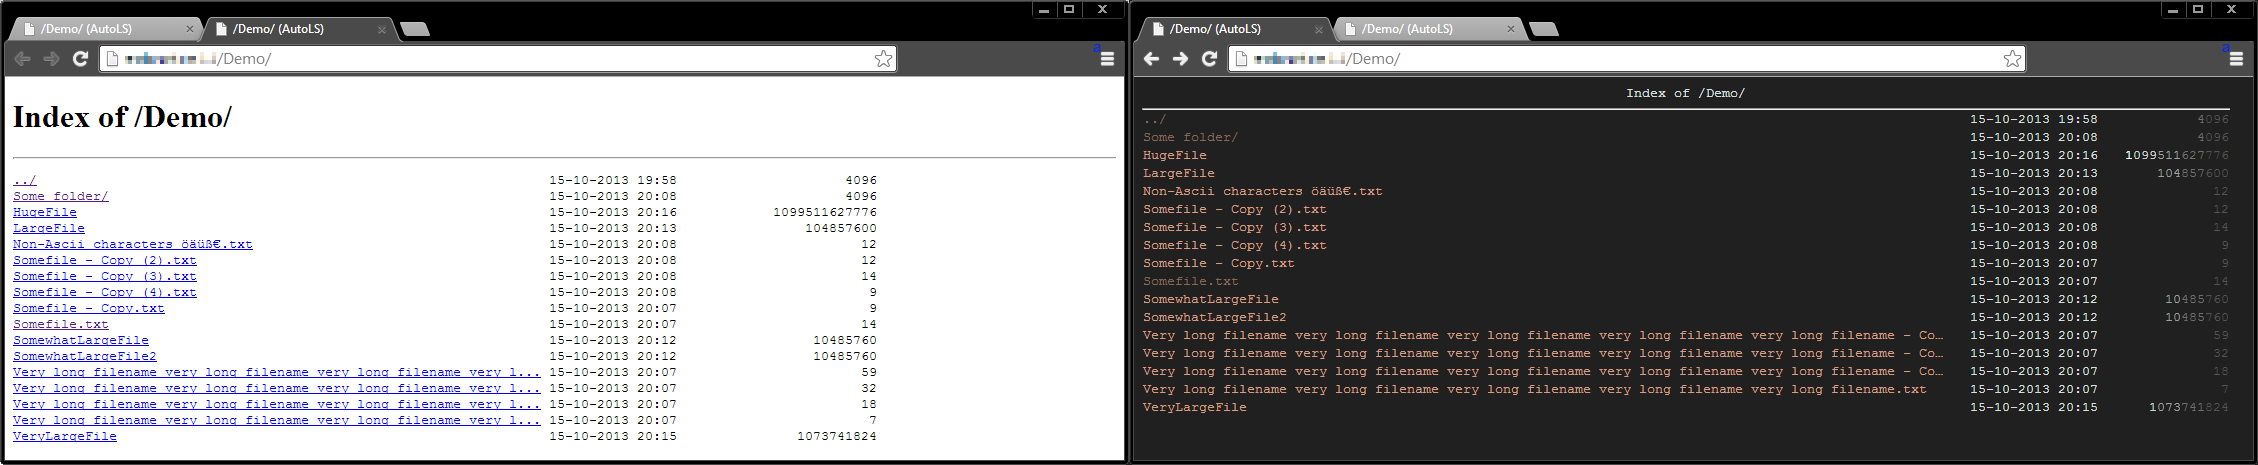
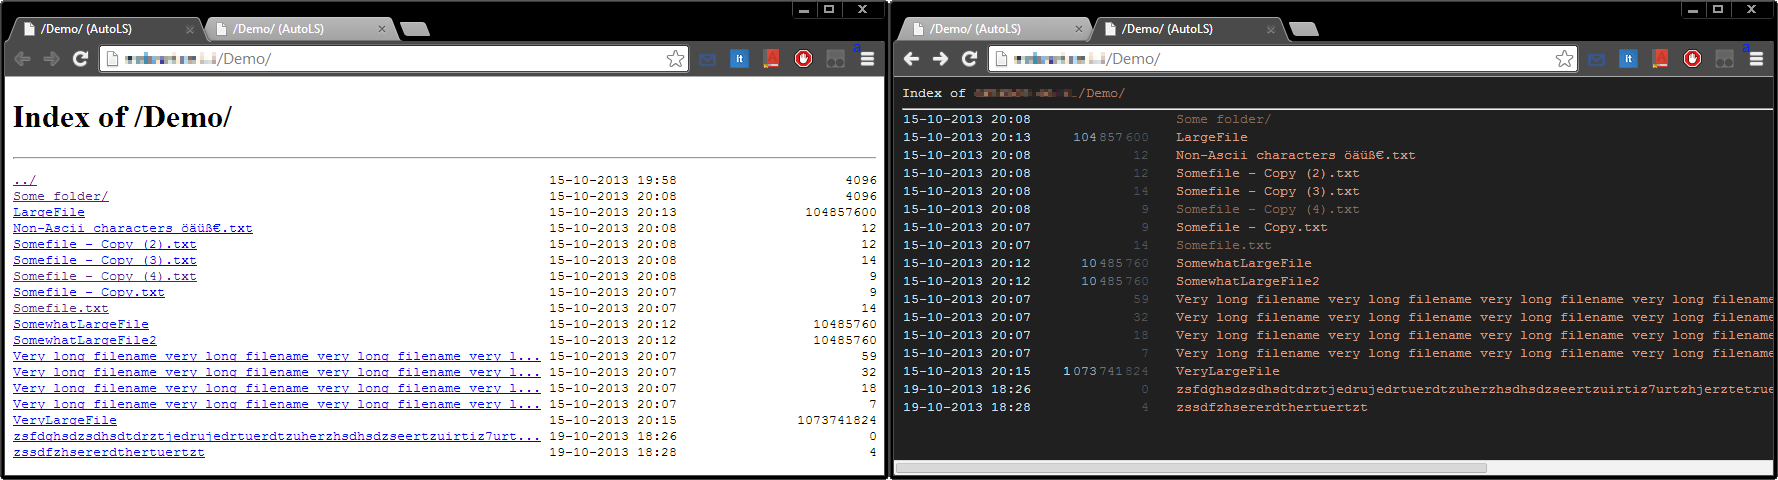
DarkJsSize template: Clickable parent folders in header; Updated readme image

diff --git a/ngx_http_autols_module/Templates/DarkJsSize.htm b/ngx_http_autols_module/Templates/DarkJsSize.htm
@@ -8,27 +8,35 @@
         window.onload = function () {
             var prefixes = ["b", "kb", "mb", "gb", "tb", "pb", "eb", "zb", "yb"];
 
-            var dirListing = [<!--{EntryLoop?Separator=,}-->
-                {
-                    "isDirectory": <!--[EntryIsDirectory]-->,
-                    "modifiedOn": "<!--[EntryModifiedOn]-->",
-                    "size": <!--[EntrySize]-->,
-                    "name": "<!--[EntryName]-->"
-                }<!--{/EntryLoop}-->
-                ];
+            var dirListing = [<!--{EntryLoop?Separator=,}-->{ "isDirectory": <!--[EntryIsDirectory]-->, "modifiedOn": "<!--[EntryModifiedOn]-->", "size": <!--[EntrySize]-->, "name": "<!--[EntryName]-->" }<!--{/EntryLoop}-->];
 
-            var contentTable = document.createElement("table");
-            contentTable.id = "contentTable";
+            var curUri = location.protocol + "//" + location.host + "/";
+            var a = document.createElement("a");
+            a.appendChild(document.createTextNode(location.host + "/"));
+            a.href = curUri;
 
             var contentCaption = document.createElement("caption");
-            var contentCaptionTestNode = document.createTextNode("Index of <!--[RequestUri]-->");
+            contentCaption.appendChild(document.createTextNode("Index of "));
+            contentCaption.appendChild(a);
 
-            contentCaption.appendChild(contentCaptionTestNode);
+            var pathParts = location.pathname.split("/");
+            for (var i = 0; i < pathParts.length; i++) {
+                if(pathParts[i] == "") continue;
+                curUri += pathParts[i] + "/";
+
+                a = document.createElement("a");
+                a.appendChild(document.createTextNode(decodeURI(pathParts[i]) + "/"));
+                a.href = curUri;
+
+                contentCaption.appendChild(a);
+            }
             contentCaption.appendChild(document.createElement("hr"));
 
+            var contentTable = document.createElement("table");
             contentTable.appendChild(contentCaption);
+            contentTable.id = "ContentTable";
 
-            for (var i = 0; i < dirListing.length; i++) {
+            for (var i = 1; i < dirListing.length; i++) {
                 var item = dirListing[i];
 
                 var row = document.createElement("tr");
@@ -68,7 +76,7 @@
                 td = document.createElement("td");
                 td.className = "Name";
 
-                var a = document.createElement("a");
+                a = document.createElement("a");
                 a.href = encodeURI(item.name);
 
                 //if(item.name.length > 100) {
@@ -85,78 +93,29 @@
         };
     </script>
     <style>
-        html {
-            background-color: #202020;
-        }
+        html { background-color: #202020; }
+        body { font-family: 'Courier New'; font-size: small; background-color: #202020; color: #DCDCDC; }
 
-        body {
-            font-family: 'Courier New';
-            font-size: small;
-            background-color: #202020;
-            color: #DCDCDC;
-        }
+        caption { text-align: left; }
 
-        #contentTable {
-            padding: 0px;
-            margin: 0px;
-            border: none;
-            border-spacing: 0px;
-            white-space: nowrap;
-            overflow: hidden;
-        }
+        a:link { color: #D69D85; text-decoration: none; }
+        a:visited { color: #87695d; text-decoration: none; }
+        a:hover { color: #D69D85; text-decoration: underline; }
+        a:active { color: #D69D85; text-decoration: none; }
 
-        tr:hover {
-            background-color: #0F0F0F;
-        }
+        caption a:visited { color: #ae7c67; text-decoration: none; }
 
-        .ModifiedOn, .Size {
-            text-align: right;
-            padding-right: 2em;
-        }
+        #ContentTable { padding: 0px; margin: 0px; border: none; border-spacing: 0px; white-space: nowrap; overflow: hidden; }
 
-        .Size {
-            min-width: 6em;
-        }
+        .ModifiedOn, .Size { text-align: right; padding-right: 2em; }
+        .Size { min-width: 6em; }
 
-        .b {
-            color: #555555;
-        }
-
-        .kb {
-            color: #6F6F6F;
-        }
-
-        .mb {
-            color: #9F9F9F;
-        }
-
-        .gb {
-            color: #CFCFCF;
-        }
-
-        .tb, .pb, .eb, .zb, .yb {
-            color: #FFFFFF;
-        }
-
-        a:link {
-            color: #D69D85;
-            text-decoration: none;
-        }
-
-        a:visited {
-            color: #87695d;
-            text-decoration: none;
-        }
-
-        a:hover {
-            color: #D69D85;
-            text-decoration: underline;
-        }
-
-        a:active {
-            color: #D69D85;
-            text-decoration: none;
-        }
+        .b { color: #555555; }
+        .kb { color: #6F6F6F; }
+        .mb { color: #9F9F9F; }
+        .gb { color: #CFCFCF; }
+        .tb, .pb, .eb, .zb, .yb { color: #FFFFFF; }
+        .b, .kb, .mb, .gb, .tb, .pb, .eb, .zb, .yb { padding-left: 0.2em; }
     </style>
 </head>
 <body>

diff --git a/README.md b/README.md
@@ -3,7 +3,7 @@ Nginx AutoLS Module
 ![Image](README-DEMO.png)
 
 ***
-***WARNING***:This project is still in the early stages and hasn't had much testing yet.
+***WARNING***: This project is still in the early stages and hasn't had much testing yet.
 ***
 
 What is AutoLS
